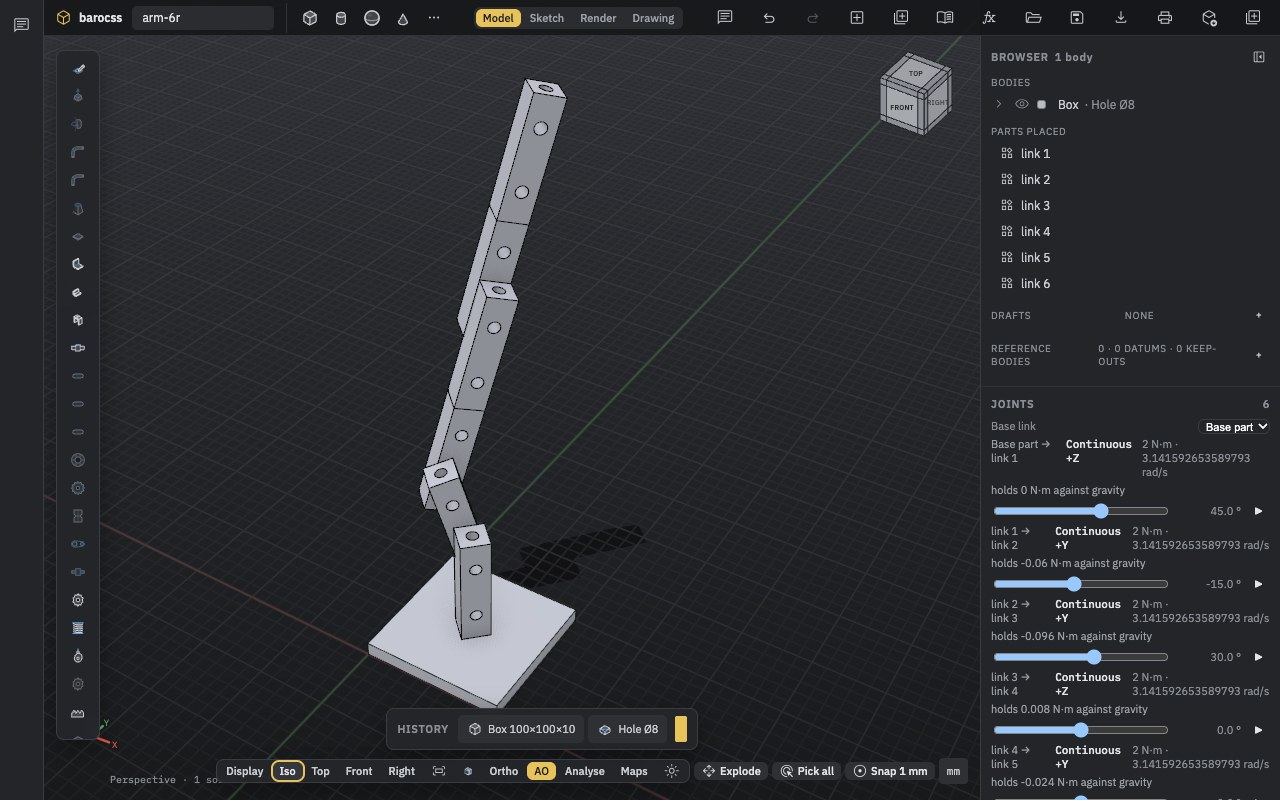
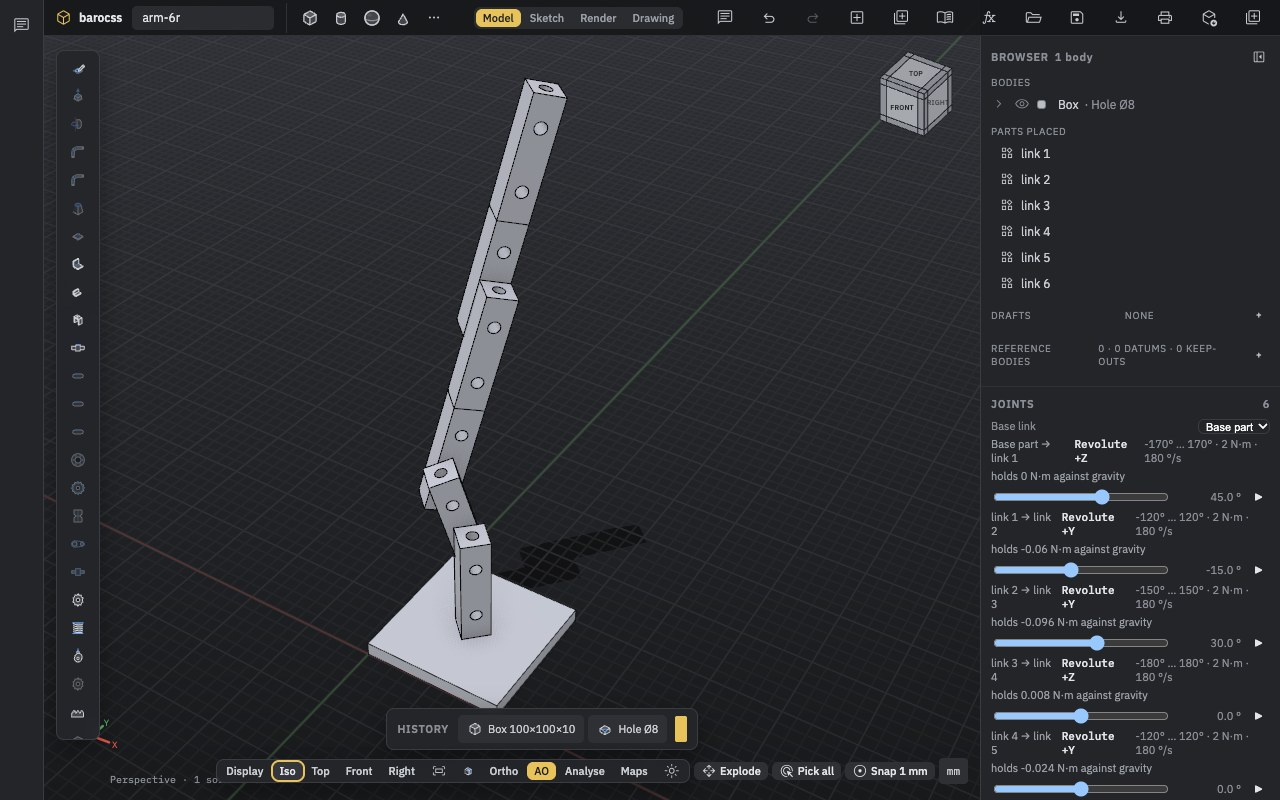
docs(library-docs): robots on O22 and the samples' real limits — scara's turns revolute (fixes integration's 48/49); every demo motion swept (#sweeps; the four-bar aside), designed contact (gear mesh, loop pins) and LOOP_OPEN stated; #motions on default limits (fixed in RS3 (b)); shots retaken (the 
check:docs OK (41 shots, 3323 KB, 612 labels); test:samples 50/50; build OK; capture of 4 robots shots on WebGPU.

Changed region(s): [[0.7812, 0.5312, 1.0, 1.0]]

diff --git a/apps/library-docs/docs/studio/robots.md b/apps/library-docs/docs/studio/robots.md
@@ -33,6 +33,12 @@ write metres and radians.
   shows the gravity torques at the current pose. Right after an edit, these wait until the masses are worked out.
 - **Paths.** **Add waypoint** records poses. **Check path** sweeps the robot along them and reports the first
   collision, with continuous collision between samples.
+  - **Designed contact isn't a collision.** Two meshing gears' teeth are the coupling's to hold, and two links pinned
+    in a planar loop can't cross where they're stacked. Those pairs are skipped, each with why; anything else between
+    the same links is still checked.
+  - **A closed loop isn't closed along a motion yet.** A motion moves only the joints it names, so a looped robot's
+    poses along it are open. The agent's `check_path` and `play_motion` refuse such a robot with `LOOP_OPEN`; the
+    studio's **Check path** and playback don't close the loop either.
 - **Playing a motion.** **Play motion** plays the motion chosen in **Motion choice** in time. Its length shows before
   it plays.
   - The draft is the path above: from home, through the waypoints, to the pose shown. Each joint moves at its velocity
@@ -43,6 +49,8 @@ write metres and radians.
   - The first contact on the way is reported as "Contact *link* – *link* at t … s". From then on the two links are
     marked: outlined on WebGPU, tinted on WebGL2.
   - Playing saves nothing. Moving a slider, **Home**, a change to the waypoints or another choice stops it.
+![The pan-tilt head's saved motion "look around" chosen in Motion choice, paused partway, its camera frame drawn](/shots/studio/robots/saved-motion.jpg)
+
 - **Saving a motion.** With the draft chosen, name it in **Motion name** and **Save as motion** keeps it in the
   document, in degrees and millimetres, and chooses it. A motion of the same name is replaced. Saving is an undo step;
   the pose shown and the play state are never saved.
@@ -123,8 +131,8 @@ so every sample exports, and each carries one demo motion in its robot settings,
 | Sample | What it is | Joints |
 |---|---|---|
 | `arm-2r` | A planar arm | Two turns about parallel vertical axes, 40 mm apart, ±150° |
-| `scara` | A SCARA arm | Turn, turn, a slide of ±40 mm, turn |
-| `arm-6r` | An industrial arm's chain | Six turns about Z, Y, Y, Z, Y and Z: waist, shoulder, elbow and a three-axis wrist |
+| `scara` | A SCARA arm | Turn (±130°), turn (±145°), a slide of ±40 mm, turn (±360°) |
+| `arm-6r` | An industrial arm's chain | Six turns about Z, Y, Y, Z, Y and Z: waist, shoulder, elbow and a three-axis wrist, each with its limits |
 | `gantry-ppp` | A Cartesian gantry | Slides along X (0–200 mm), Y (0–120 mm) and Z (±40 mm) |
 | `pan-tilt` | A camera head | Pan about Z (±170°), tilt about X (±60°), and a `camera` sensor frame |
 | `gripper` | A gear-coupled gripper | The left finger turns ±30°; the right one follows on meshing 20-tooth gears, the other way |
@@ -195,6 +203,11 @@ the tool gives them, with turns in radians.
   `withMotion(name, path)` returns a robot with the path saved.
 
 <<< @/../samples/robots.test.mjs#motions
+
+- **Every demo motion swept.** Each sample's own motion is clear, the four-bar aside; the gripper's meshing fingers
+  are skipped as designed contact.
+
+<<< @/../samples/robots.test.mjs#sweeps
 
 - **The exports**, each with what its reader found and what it had to assume. `check` lists what our own reader found
   wrong when reading the file back, and `notes` what the export assumed, such as aluminium for a body without a
